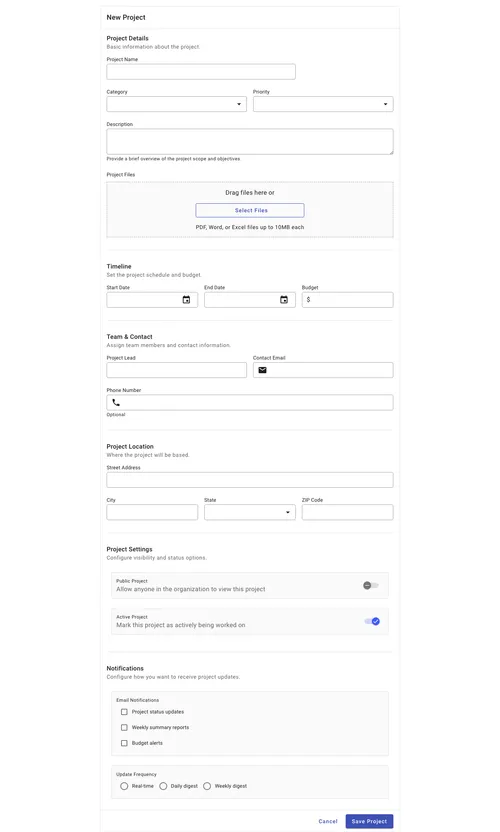
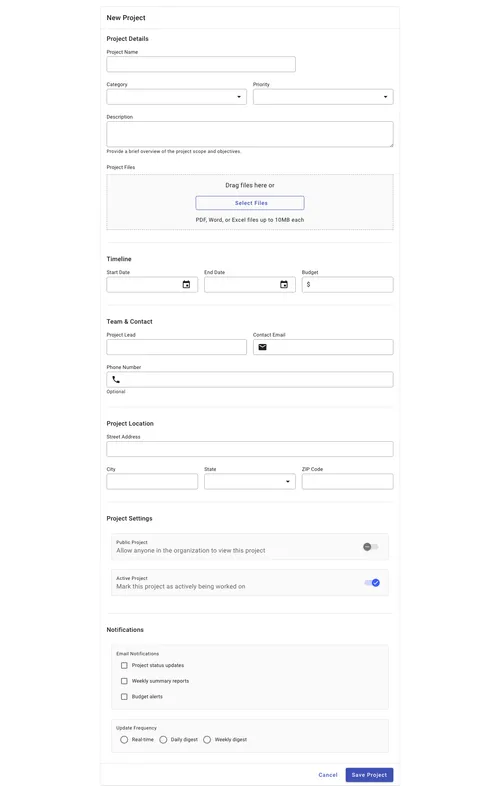
chore: add new Horizontal Label Value List block and associated assets

diff --git a/blocks/src/blocks/data-display/horizontal-label-value-list/horizontal-label-value-list.html b/blocks/src/blocks/data-display/horizontal-label-value-list/horizontal-label-value-list.html
@@ -1,0 +1,25 @@
+<!--
+  @block Horizontal Label Value List
+  @description Read-only data display arranged as a two-column grid with labels on the left and values on the right. Labels use the forge-label-value label styling (label2 typography, medium color) while values use body1 typography. Rows wrap independently, so long labels and multi-line values keep their column alignment. Includes an example of an empty value rendered as an italic "n/a" placeholder. Useful for detail summaries, definition lists, entity metadata panels, and read-only field displays.
+  @tags label-value, list, detail, definition-list, key-value, metadata, read-only, data-display, summary, grid
+-->
+<div class="p-medium">
+  <dl class="grid grid-cols-[200px_1fr] gap-x-large gap-y-medium max-w-[900px]">
+    <dt class="text-label2 text-medium">Label</dt>
+    <dd class="text-body1">Value</dd>
+
+    <dt class="text-label2 text-medium">Very long label</dt>
+    <dd class="text-body1">Value</dd>
+
+    <dt class="text-label2 text-medium">Long value</dt>
+    <dd class="text-body1">
+      Lorem ipsum dolor sit amet, consectetur adipiscing elit. Sed quis consectetur nisl, quis euismod
+      aliquet. Nulla eu turpis eu magna faucibus eleifend eu quis nulla. Pellentesque odio ante, vulputate
+      sit amet euismod nec, viverra a sem. Nullam bibendum magna tortor, vel tincidunt ex gravida non.
+      Quisque sit amet finibus diam.
+    </dd>
+
+    <dt class="text-label2 text-medium">Empty</dt>
+    <dd class="text-body1 italic text-medium">n/a</dd>
+  </dl>
+</div>